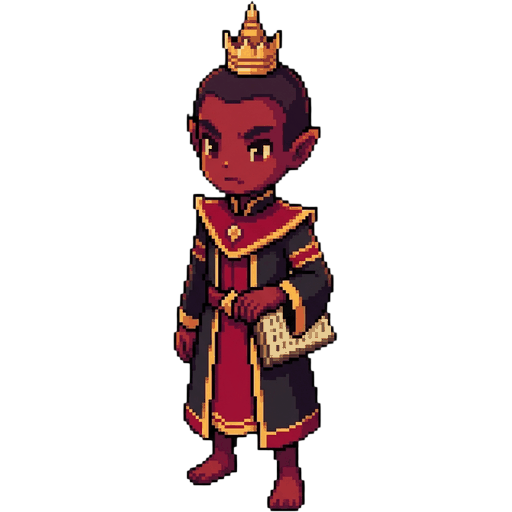
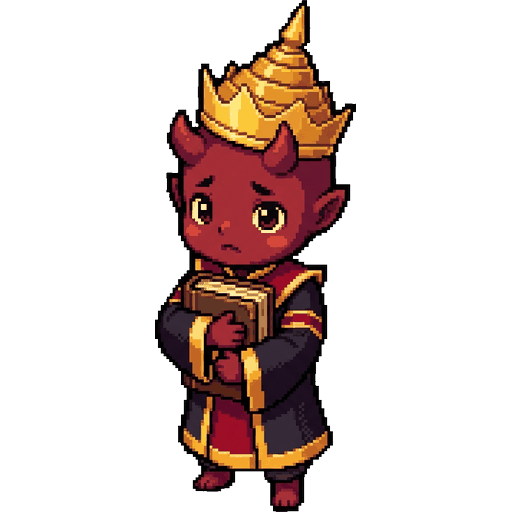
prep-art: ลอกลายตารางหมากรุกที่ Gemini วาดติดมาในภาพ
เวอร์ชันน่ารักของ hero-yama ที่ gen มา ไม่มี alpha เลยสักนิด —
Gemini วาด "ลายตารางที่แปลว่าพื้นใส" ลงไปเป็นพิกเซลจริง แล้วเซฟเป็น jpeg
เอาเข้าเกมตรง ๆ จะได้แผ่นตารางเทาติดมาเต็มกรอบ

เพิ่ม strip_flat_bg(): flood fill จากขอบภาพ เก็บเฉพาะพิกเซลที่ r≈g≈b
ตัวละครในเกมนี้สีจัดทุกตัวเลยไม่โดนกินไปด้วย — ลอกออก 841k จาก 1M พิกเซล ไม่มีขอบเทาเหลือ
และให้ข้ามไฟล์ที่ขึ้นต้นด้วย _ (เก็บไว้อ้างอิง ไม่เอาเข้าเกม)

hero-yama ใช้เวอร์ชันน่ารักไปพลางก่อน เวอร์ชันสุขุมเก็บไว้ที่ _hero-yama-calm.png
รอรอบผสมตาม prompt ใหม่ใน ASSET-PROMPTS.md

Claude-Session: https://claude.ai/code/session_012HrRVL2ZUEJ95yHNrFG4Sx

Changed region(s): [[0.2812, 0.0, 0.7188, 1.0]]

diff --git a/scripts/prep-art.py b/scripts/prep-art.py
@@ -24,8 +24,53 @@ ROOT = os.path.join(os.path.dirname(os.path.abspath(__file__)), '..')
 RAW = os.path.join(ROOT, 'img', 'raw')
 OUT = os.path.join(ROOT, 'img')
 
+
+def strip_flat_bg(im):
+    """ลอกพื้นหลังทึบออกให้เป็น alpha
+
+    เจอกับ Gemini บ่อย: มัน **วาดลายตารางหมากรุก** (ลายที่โปรแกรมใช้แทน "พื้นใส")
+    ลงไปเป็นพิกเซลจริง ๆ แล้วเซฟเป็น jpeg ไฟล์เลยไม่มี alpha สักนิด
+    ถ้าเอาเข้าเกมตรง ๆ ตัวละครจะมีแผ่นตารางเทาติดมาเต็มกรอบ
+
+    วิธีลอก: flood fill จากขอบภาพเข้ามา เก็บเฉพาะพิกเซลที่ "เทา ๆ" (r≈g≈b)
+    ตัวละครในเกมนี้สีจัดทุกตัว เลยไม่โดนกินไปด้วย
+    """
+    from collections import deque
+    im = im.convert('RGBA')
+    w, h = im.size
+    px = im.load()
+
+    def greyish(p):
+        r, g, b, _ = p
+        return abs(r - g) < 16 and abs(g - b) < 16 and abs(r - b) < 16 and 60 <= r <= 215
+
+    seen = bytearray(w * h)
+    q = deque()
+    for x in range(w):
+        for y in (0, h - 1):
+            if greyish(px[x, y]): q.append((x, y)); seen[y * w + x] = 1
+    for y in range(h):
+        for x in (0, w - 1):
+            if greyish(px[x, y]) and not seen[y * w + x]: q.append((x, y)); seen[y * w + x] = 1
+    if len(q) < (w + h):          # ขอบไม่ได้เป็นพื้นเรียบ — ไม่ใช่เคสนี้ ปล่อยผ่าน
+        return im, 0
+
+    n = 0
+    while q:
+        x, y = q.popleft()
+        px[x, y] = (0, 0, 0, 0); n += 1
+        for dx, dy in ((1, 0), (-1, 0), (0, 1), (0, -1)):
+            nx, ny = x + dx, y + dy
+            if 0 <= nx < w and 0 <= ny < h and not seen[ny * w + nx] and greyish(px[nx, ny]):
+                seen[ny * w + nx] = 1; q.append((nx, ny))
+    return im, n
+
 def prep(path, name):
-    im = Image.open(path).convert('RGBA')
+    im = Image.open(path)
+    stripped = 0
+    if im.mode != 'RGBA' and not name.startswith('tile-'):
+        im, stripped = strip_flat_bg(im)      # 0. ไฟล์ที่ไม่มี alpha ลองลอกพื้นหลังทึบออกก่อน
+    im = im.convert('RGBA')
     # 1. ตัดขอบใส — ต้องใช้ threshold ไม่ใช่ getbbox() ตรง ๆ
     #    generator ทิ้ง alpha จาง ๆ (1-10) กระจายทั่วผืน getbbox() เลยคืนภาพเต็มใบ
     #    ผลคือตัวละครถูกย่อจนเหลือครึ่งเดียวของที่ควรเป็น
@@ -61,7 +106,9 @@ def prep(path, name):
 def main():
     if not os.path.isdir(RAW):
         sys.exit('ไม่พบโฟลเดอร์ ' + RAW)
-    files = sorted(f for f in os.listdir(RAW) if f.lower().endswith('.png'))
+    # ไฟล์ที่ขึ้นต้นด้วย _ = เก็บไว้อ้างอิง ไม่ต้องเอาเข้าเกม
+    files = sorted(f for f in os.listdir(RAW)
+                   if f.lower().endswith('.png') and not f.startswith('_'))
     if not files:
         sys.exit('ยังไม่มีไฟล์ใน img/raw/ — วาง <key>.png ไว้ก่อน')
     for f in files:

diff --git a/ASSET-PROMPTS.md b/ASSET-PROMPTS.md
@@ -76,8 +76,18 @@ molten orange lava glow, antique temple gold trim
 | `crew-kan` | a calm scholarly demon, deep indigo skin, long dark hair tied back, round spectacle-less eyes, simple dark robe with gold trim, holding a Thai amulet with a blue eye motif, thoughtful expression |
 | `crew-boon` | a gentle demon monk-attendant, pale jade skin, soft round face, small blunt horns, plain ochre wrap-robe, holding a single pink lotus with both hands, serene sad smile |
 | `crew-dam` | a small scruffy bat-winged imp, charcoal skin, oversized ears, patched black shorts, carrying a bucket of coal, sleepy half-lidded eyes |
-| `hero-yama` | **(แก้ใหม่ 5 ก.ย. — ของเดิมโตเกินและสัดส่วนไม่เข้าชุดกับยมทูต)** the player character, a *child* prince of the underworld: chibi demon boy who looks about twelve, **2.5 heads tall exactly like the crew sprites**, big round expressive eyes, soft round cheeks, small blunt horns, dark red skin, a gold five-tiered crown **slightly too big for his head so it tips forward**, black and crimson Thai royal robe with gold trim whose sleeves are a little too long for his arms, hugging a thick ledger against his chest with both arms, nervous but trying-hard expression |
+| `hero-yama` | **(รอบ 3 — ผสมสองเวอร์ชัน ดูหมายเหตุใต้ตาราง)** the player character, a boy prince of the underworld: chibi demon boy about twelve, **the same height and build as the crew sprites, roughly 3 heads tall, with a slightly wide sturdy stance — not a narrow vertical figure**, big round eyes with soft worried eyebrows and faint blush on the cheeks, small blunt horns, dark red skin, **a neat compact Thai gold mongkut crown, only slightly too big so it tips a little forward — NOT a tall pointed cone**, black and crimson Thai royal robe with clean gold trim and slightly over-long sleeves, hugging a thick ledger against his chest with both arms, nervous but trying-hard expression, **outline weight matching the other crew sprites — not a heavy black cartoon outline** |
 | `hero-boss` | ✅ **ผ่านแล้ว ไม่ต้อง gen ใหม่** — the King of Death seated on a tall black throne, huge imposing crowned demon king, dark maroon skin, elaborate Thai royal regalia in gold and black, holding a long staff, face half in shadow — **ภาพนี้เป็นฉาก ไม่ต้องพื้นใส วาดเป็นภาพจัตุรัสเต็มใบได้** |
+
+> **ทำไมต้อง gen รอบ 3** — เวอร์ชัน "น่ารัก" (Gemini) กับเวอร์ชัน "สุขุม" เก็บไว้ที่
+> `img/raw/hero-yama.png` และ `img/raw/_hero-yama-calm.png` ตามลำดับ
+> เอาจากน่ารัก: หน้ากลม ตาโต คิ้วกังวล แก้มแดง ท่ากอดแฟ้มด้วยสองแขน
+> เอาจากสุขุม: ทรงมงกุฎไทยที่ถูกต้อง การตัดเย็บเสื้อคลุมและตำแหน่งขลิบทอง น้ำหนักเส้นขอบ
+> ทิ้งทั้งคู่: มงกุฎทรงกรวยสูงเกินครึ่งหัว (จากน่ารัก) · หน้าผู้ใหญ่ไร้อารมณ์และตัวผอมสูง (จากสุขุม)
+>
+> **เหตุผลเรื่องรูปทรงตัว** — ย่อทั้งสองเวอร์ชันลงขนาดจริงในเกม (34px) เทียบกับทัณฑ์แล้ว
+> ทัณฑ์อ่านออกชัดเพราะเงาตัวกว้างและมีชิ้นส่วนใหญ่ ๆ ส่วน hero ทั้งสองเวอร์ชันเป็นแท่งแคบ ๆ
+> เลยจมหายทั้งคู่ — เวอร์ชันใหม่ต้อง**ยืนกว้างขึ้น** ไม่ใช่แค่เตี้ยลง
 
 ---
 
